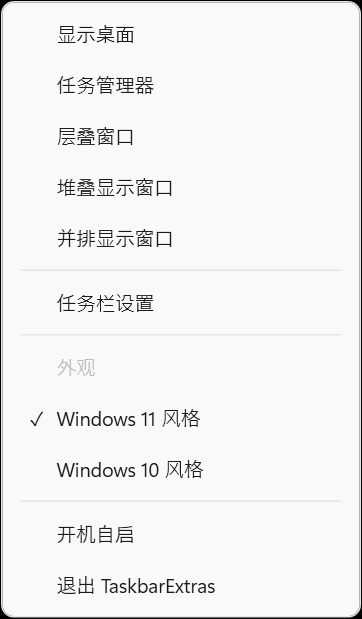
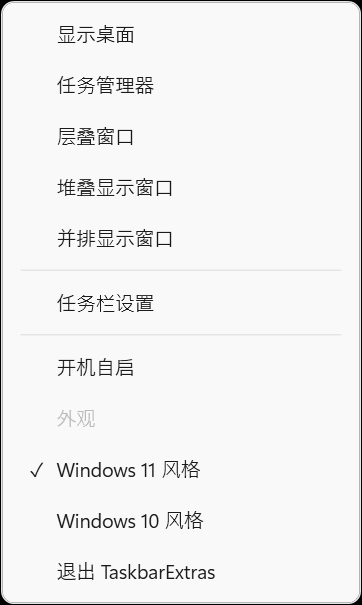
fix: move the app's own rows below the Windows 10 six
The appearance group had been wedged between Taskbar settings and Start at
sign-in, which split the Win10 block in two and made the grouping read as
though Appearance belonged with Taskbar settings.

The six rows Windows 10 actually had now sit together and untouched, with one
separator, and everything this app adds lives below it in the order Start at
sign-in / Appearance / Exit. Rebuild() already inserts a separator ahead of the
extras, so the factory no longer adds one of its own.

One thing deliberately left alone: the separator between "Show windows side by
side" and "Taskbar settings". It was added earlier on the assumption that the
Win10 menu had one there, but that was never measured. Holding until the
reference screenshot arrives rather than guessing twice.

diff --git a/src/TaskbarExtras.App/App.xaml.cs b/src/TaskbarExtras.App/App.xaml.cs
@@ -86,6 +86,11 @@ public partial class App : System.Windows.Application
             // they will ever look for them.
             ExtraItemsFactory = withMnemonic => new[]
             {
+                // Everything below the Win10 six, at the bottom. Windows 10's own menu had none of
+                // these, so they stay out of the way and keep the six rows above untouched.
+                MenuItemViewModel.Toggle(
+                    Localization.Get("menu.startup"), 'A',   // Autostart
+                    StartupRegistration.IsEnabled, withMnemonic, ToggleStartup),
                 MenuItemViewModel.Heading(Localization.Get("menu.appearance"), withMnemonic),
                 MenuItemViewModel.Radio(
                     Localization.Get("menu.skin.win11"), '1',   // keyed 1 / 2: no letters free, and
@@ -95,10 +100,6 @@ public partial class App : System.Windows.Application
                     Localization.Get("menu.skin.win10"), '2',
                     AppSettings.Skin == "win10", withMnemonic,
                     () => SwitchSkin("win10")),
-                MenuItemViewModel.Separator(),
-                MenuItemViewModel.Toggle(
-                    Localization.Get("menu.startup"), 'A',   // Autostart
-                    StartupRegistration.IsEnabled, withMnemonic, ToggleStartup),
                 MenuItemViewModel.Command(
                     Localization.Get("menu.exit"), 'X',      // eXit
                     withMnemonic, () => Shutdown())

diff --git a/README.en.md b/README.en.md
@@ -31,7 +31,10 @@ Right-click the taskbar's empty background:
 | Show windows side by side | |
 | Taskbar settings | |
 | Start at sign-in | Checkable; click to toggle |
+| Appearance | Windows 11 / Windows 10 style; click to switch and restart |
 | Exit TaskbarExtras | |
+
+The first six are the Windows 10 originals, in the original order. **Appearance / Start at sign-in / Exit** did not exist there (Windows 10 started itself from Settings, and quitting meant killing the process), so they sit below the separator at the bottom and leave the six rows above alone.
 
 Only the **empty** part of the taskbar is intercepted. Right-clicking Start still gives you Win+X, right-clicking a task button still gives you its jump list, right-clicking a tray icon still gives you its own menu. None of that is touched.
 

diff --git a/README.md b/README.md
@@ -31,7 +31,10 @@
 | 并排显示窗口 | |
 | 任务栏设置 | |
 | 开机自启 | 勾选项，点一下切换 |
+| 外观 | Windows 11 / Windows 10 风格，点一下切换并重启 |
 | 退出 TaskbarExtras | |
+
+前六项就是 Windows 10 原版的顺序和内容。**外观 / 开机自启 / 退出**是 Win10 没有的（Win10 靠系统设置启动，退出则直接结束进程），所以放在分隔线之后的最底部，不去打扰上面那六项。
 
 只有任务栏**空白处**会被拦截。右键开始按钮还是 Win+X，右键任务图标还是跳转列表，右键托盘图标还是各自的菜单 —— 这些都没动。
 
